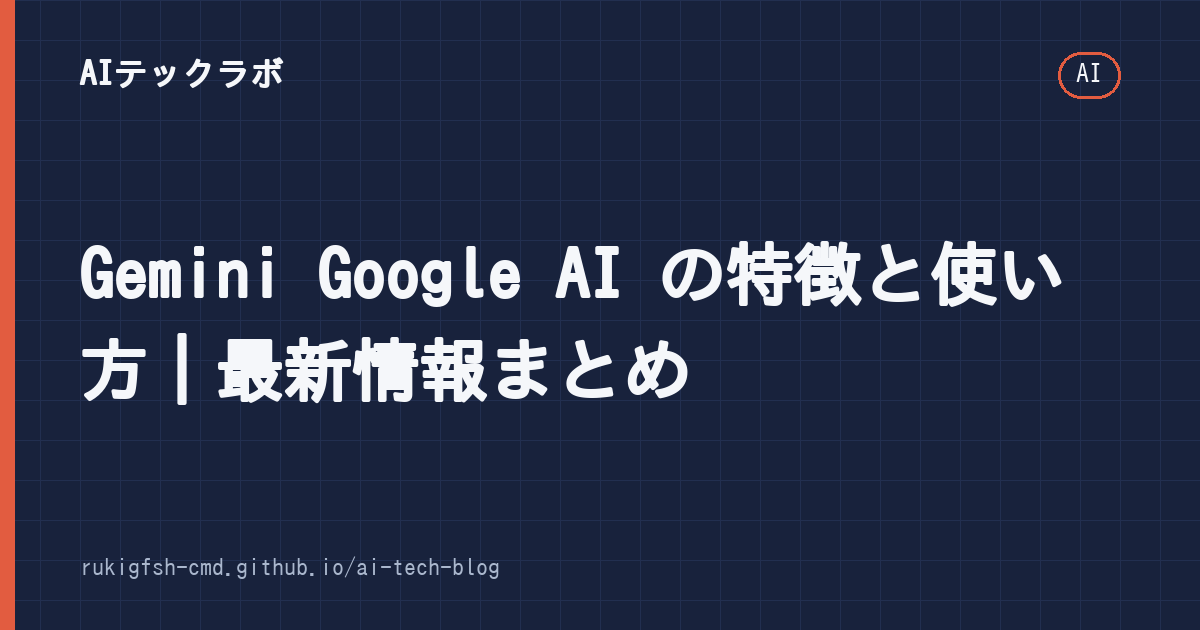
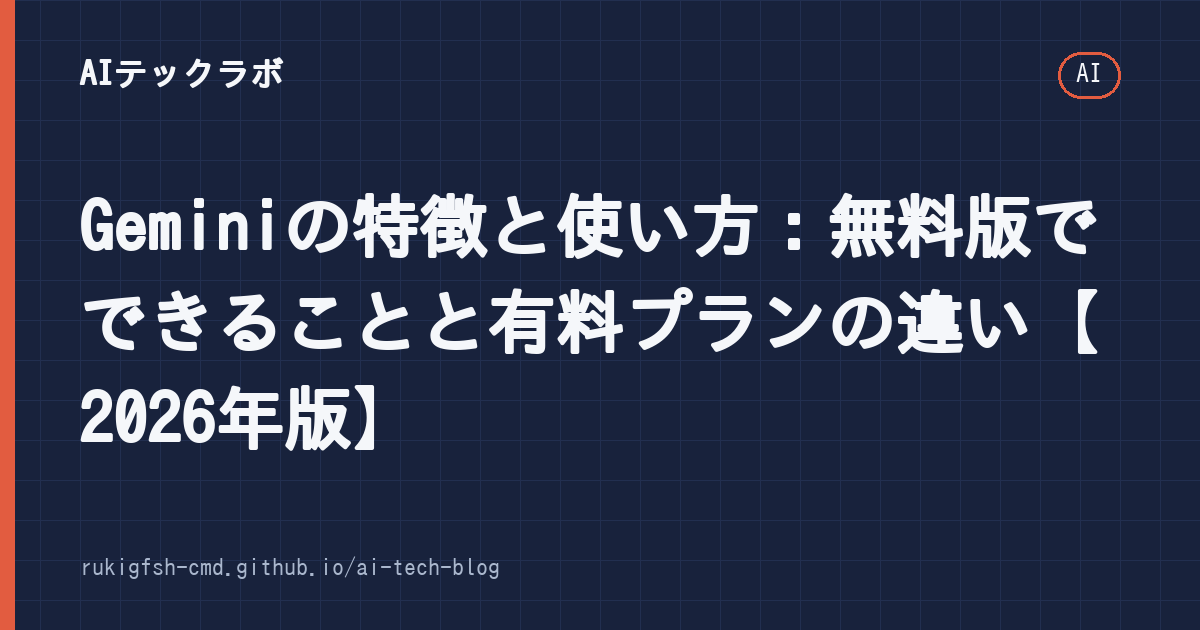
[auto-publish] Gemini記事を全面改稿（2026年10月のプラン別モデル変更・料金・機能を出典付きで）
Claude-Session: https://claude.ai/code/session_01LHbLs22yzJHof2fDha7qjp

Changed region(s): [[0.0617, 0.3016, 0.925, 0.7238], [0.8942, 0.4524, 0.925, 0.573]]

diff --git a/_posts/2026-10-02-gemini-google-ai-特徴.md b/_posts/2026-10-02-gemini-google-ai-特徴.md
@@ -1,47 +1,146 @@
 ---
 layout: "post"
-title: "Gemini Google AI の特徴と使い方｜最新情報まとめ"
+title: "Geminiの特徴と使い方：無料版でできることと有料プランの違い【2026年版】"
 date: "2026-10-02 00:00:00 +0900"
-description: "GoogleのAI「Gemini」の主な特徴（Google検索と組み合わせた回答、画像生成、コード作成、Googleサービスとの連携）と、使うときの注意点をまとめました。"
+last_modified_at: 2026-11-21
+description: "GoogleのAI「Gemini」でできること（検索連動の回答・Deep Research・画像生成・Gmail連携など）と、2026年10月に変わった無料版とGoogle AI Plus・Proの違い、上手な使い方と注意点を解説します。"
 categories:
   - AI
 tags:
   - Gemini
   - Google
   - AI
-  - 特徴
+  - 使い方
 author: "AIテックラボ編集部"
 image: "/assets/images/gemini-google-ai-特徴.png"
-last_modified_at: 2026-11-19
+pr: false
 ---
 
-## 目次
+「Geminiって無料でどこまで使えるの？」「有料プランにする意味はある？」という疑問に、2026年11月時点の公開情報をもとに答えます。
 
-1. [1. Google検索と組み合わせた回答](#1-google検索と組み合わせた回答)
-2. [2. 画像生成機能](#2-画像生成機能)
-3. [3. コード作成とデバッグ](#3-コード作成とデバッグ)
-4. [4. 多言語対応](#4-多言語対応)
-5. [5. Googleサービスとの連携](#5-googleサービスとの連携)
+Gemini は Google が提供するAIアシスタントです。ブラウザ（gemini.google.com）、スマホアプリ、Android の標準アシスタント、Gmail や Google ドキュメントの中など、いろいろな入口から使えます。
 
----
+なお、**2026年10月9日から、無料版で選べるモデルが変わりました**。少し前の解説記事とは条件が違うので、この記事では変更後の内容でまとめています。
 
-GeminiはGoogleが提供しているAIアシスタントです。無料で使え、より多く・高性能なモデルを使える有料プラン（Google AI Plus・Google AI Pro など）もあります。最新の料金や、Claude・ChatGPTとの違いは「[Claude・ChatGPT・Geminiの違いと使い分け]({{ site.baseurl }}{% post_url 2026-10-08-claude-ai-比較 %})」で比較しています。
+## 結論：まず無料版、物足りなくなったら Google AI Pro
 
-## 1. Google検索と組み合わせた回答
-Geminiは、必要に応じてGoogle検索の情報も使って答えられるのが強みです。回答の内容を検索結果と照らし合わせて確認する機能もあり、調べものの入口として使いやすくなっています。
+| こんな人に | おすすめ |
+|---|---|
+| ちょっとした調べもの・文章の下書き・画像生成を試したい | **無料版**で十分 |
+| 無料版の回答の質や回数に不満がある、Google ドライブの容量も足りない | **Google AI Plus**（入門プラン） |
+| 長い資料を読ませる、難しい質問をする、Gmail・ドキュメントの中でも使いたい | **Google AI Pro**（標準プラン） |
 
-なお、GeminiアプリはGoogleのサーバー上で動くため、使うにはインターネット接続が必要です。一部のAndroidスマホには端末内で動く小型モデル（Gemini Nano）が入っていますが、使える機能は限られます。
+最上位の **Google AI Ultra** は、動画生成などを大量に使う人向けの高額プランです。普通の使い方なら検討しなくて大丈夫です。
 
-## 2. 画像生成機能
-Geminiの画像生成機能（ImageFX）は非常に高品質です。プロンプトに「cyberpunk street」と入力すると、ネオ・トーキョー風の通りが自動生成されます。ただし、この機能は現在まだBeta段階で、利用人数制限があるようです。
+## 2026年10月に何が変わった？（プラン別のモデル）
 
-## 3. コード作成とデバッグ
-GeminiはPythonやJavaScriptなどのコード作成も得意です。「HTMLでポートフォリオのテンプレートを作って」などの依頼に対応します。さらに既存のコードを改善する提案もしてくれます。ただし、生成されたコードを実際に動かす前に必ず確認が必要です。
+Gemini には、性能と速さの違う3種類のモデルがあります。
 
-## 4. 多言語対応
-英語だけでなく日本語での会話も自然です。ただし、複雑な日本語の文脈理解にはまだ不十分で、意味が通じない返答が発生することがあります。
+- **Flash-Lite**: いちばん軽くて速い。日常の質問向け
+- **Flash**: バランス型。ふだん使いの中心
+- **Pro**: いちばん賢い。難しい推論・長い資料・プログラミング向け
 
-## 5. Googleサービスとの連携
-GeminiはGoogleアカウントと連携することで、GmailやDocsなどの機能拡張が可能です。「Gmailにスパムメールをフィルタリングするプロンプト」などを設定すると、実際に使えるようになります。ただし、この連携にはセキュリティリスクも伴います。
+Google の公式ヘルプ「Changes to Gemini model access and limits」と各社の報道によると、個人アカウントでは2026年10月9日から次のように変わりました。
 
-Geminiは検索と組み合わせて答えられる一方で、それらしい間違いを出すこともあります。重要な事実は、回答に示された出典や公式情報で確かめましょう。また、画像の生成・加工機能は便利ですが、実在の人物を使ったなりすましなどの悪用は避けてください。
+| プラン | 使えるモデル |
+|---|---|
+| 無料（未加入） | Flash-Lite のみ |
+| Google AI Plus | Flash-Lite・Flash（Pro は使えなくなる。適用日はメールで個別に案内） |
+| Google AI Pro / Ultra | Flash-Lite・Flash・Pro |
+
+出典: [Google ヘルプ「Changes to Gemini model access and limits」](https://support.google.com/gemini/answer/17004136?hl=en)、[窓の杜（2026年10月）](https://forest.watch.impress.co.jp/docs/news/2145483.html)、[PC Watch（2026年10月）](https://pc.watch.impress.co.jp/docs/news/2145770.html)
+
+あわせて、2026年5月からは使用量の上限が「回数」ではなく計算量ベースになり、無料版の上限を基準に、有料プランはその何倍まで使えるか、という形で示されるようになっています（[Google ヘルプ：プラン別の使用量上限](https://support.google.com/gemini/answer/16275805?hl=ja)）。具体的な上限は変わることがあるので、アプリの設定から見られる使用量の表示で確認してください。
+
+なお、モデルの細かい版番号（「3.1」「3.6」など）は数か月ごとに入れ替わり、紹介記事によって書かれている番号もばらばらです。**選ぶときは版番号より「Flash-Lite / Flash / Pro のどれが使えるか」を見る**のが確実です。
+
+## 料金プラン（日本）
+
+| プラン | 月額（税込） | 主な内容 |
+|---|---|---|
+| 無料 | 0円 | Google アカウントがあれば使える |
+| Google AI Plus | 1,200円（2026年1月の日本提供開始時） | Flash まで使える入門プラン。ストレージ200GB付き |
+| Google AI Pro | 2,900円 | Pro モデル、上限の引き上げ、Gmail・ドキュメントなどでの Gemini、NotebookLM の上限引き上げ。ストレージ付き |
+| Google AI Ultra | 1万円台〜3万円台（構成による） | 最上位。動画生成などの上限が大きい |
+
+出典: [Google 公式ブログ「Google AI Plus を提供開始」](https://blog.google/intl/ja-jp/company-news/technology/google-ai-plus/)、[App Store の Gemini アプリ掲載情報](https://apps.apple.com/JP/app/id6477489729)、[freee「Google AI Pro とは」](https://www.freee.co.jp/kb/kb-ai/google-ai-pro/)
+
+※ 2026年11月21日時点で確認。AI Plus は公式の購入ページで月725円と表示されている例もあり、キャンペーン（最初の数か月が割引）もあるため、金額は媒体によって違います。Pro に付くストレージ容量も2TBと5TBの両方の記載が見つかりました。**契約前に Google One のアプリか公式ページで最新の金額と内容を確認してください。**
+
+Google のプランは**クラウドストレージがセット**です。すでに Google One（ストレージ）にお金を払っている人は、AI 付きのプランに切り替えると、差額だけで Gemini の有料機能が使えることがあります。
+
+## Gemini でできること
+
+### 1. Google 検索と組み合わせた回答
+
+Gemini は、必要に応じて Google 検索の情報を使って答えます。ニュースや営業時間、新製品の情報など「今の情報」が必要な質問に強いのが特徴です。回答には参照したページが表示されることがあるので、大事な事実はそのリンク先で確かめましょう。
+
+検索と出典の表示に特化したAIなら「[Perplexity AIの使い方]({{ site.baseurl }}{% post_url 2026-10-03-perplexity-ai-検索 %})」も参考になります。
+
+### 2. Deep Research（調べものの自動レポート）
+
+テーマを伝えると、Gemini が調査の計画を立て、たくさんのWebページを読んで、出典付きのレポートにまとめてくれる機能です。「〇〇業界の最近の動向」「△△を比較して」といった、自分で調べると何時間もかかる下調べに向いています。
+
+無料版でも使えますが、回数や深さには上限があります。出来上がったレポートは便利な「たたき台」であって、結論をそのまま信じるのではなく、出典を開いて確認する前提で使いましょう。
+
+### 3. 画像の生成と編集
+
+「〇〇な雰囲気のイラストを描いて」と頼むと画像を作れます。手持ちの写真をアップロードして「背景を消して」「色合いを変えて」と、会話しながら編集することもできます。画像生成モデルは「Nano Banana」の愛称で知られ、有料プランではより高品質なモデルで作り直せます（[9to5Google](https://9to5google.com/2026/03/17/google-ai-pro-ultra-features)）。
+
+作った画像には、AIで作ったことを示す見えない透かし（SynthID）が入ります。実在の人物を使ったなりすましや、他人の作品に似せた画像を作るのは避けてください。画像生成のコツは「[Midjourneyで思い通りの画像を作るコツ]({{ site.baseurl }}{% post_url 2026-09-04-midjourney-画像生成-コツ %})」のプロンプトの考え方も参考になります。
+
+### 4. Canvas（文章やアプリのたたき台を作る画面）
+
+チャットの横に作業用の画面を開き、文章や簡単なWebページのコードを作って、その場で直していける機能です。「この文章をもっと短く」「ボタンの色を変えて」と部分的に頼めるので、長い文章の推敲や、ちょっとした道具づくりに便利です。
+
+### 5. Gem（自分用のAIを作る）
+
+「いつもこの形式で答えて」「この資料を前提にして」という指示をまとめて保存し、専用のアシスタント（Gem）として呼び出せる機能です。毎回同じ説明をしなくて済むので、メールの返信文づくり、ブログの構成案づくりなど、繰り返す作業に向いています。指示の書き方は「[プロンプトエンジニアリング入門]({{ site.baseurl }}{% post_url 2026-09-27-プロンプトエンジニアリング-入門 %})」で解説しています。
+
+### 6. Gemini Live（音声で会話）
+
+スマホに話しかけて、そのまま音声で会話できる機能です。途中で割り込んで質問を変えることもでき、カメラの映像や画面を見せながら相談することもできます。英会話の練習や、料理中など手がふさがっているときに便利です。
+
+### 7. Google のアプリとの連携
+
+Gemini アプリから、Gmail・Google ドライブ・Google カレンダー・Google マップ・YouTube などの情報を使えます（アプリの設定で連携をオンにした場合）。たとえば「先週の〇〇さんからのメールを要約して」「ドライブにある見積書の金額を教えて」といった使い方です。
+
+さらに **Google AI Pro 以上**では、Gmail や Google ドキュメントの画面の中でも Gemini を呼び出して、メールの下書きや文書の要約ができます。
+
+### 8. スマホ（Android）のアシスタントとして
+
+多くの Android スマホでは、電源ボタンの長押しなどで Gemini を呼び出せます。画面に表示されている内容について質問したり、アラームやメッセージの操作を頼んだりできます。iPhone でもアプリを入れれば使えますが、OS との連携は Android のほうが深くなっています。
+
+## 上手に使うコツ
+
+- **前提と目的を最初に書く**: 「中学生向けに」「300字で」「表にして」など、読み手・長さ・形式を指定すると、やり直しが減ります。
+- **調べものは出典を開く**: 検索連動の回答や Deep Research でも、それらしい間違い（ハルシネーション）は起こります。数字・日付・固有名詞は出典で確認しましょう。
+- **繰り返す作業は Gem にする**: 同じ指示を何度も打っているなら、Gem にまとめると楽になります。
+- **重い作業はモデルを確認**: 長い資料の分析やプログラミングで結果がいまいちなときは、使っているモデル（Flash-Lite / Flash / Pro）を確認しましょう。無料版は Flash-Lite だけなので、難しい作業は苦手です。
+
+## 注意点（プライバシーと安全）
+
+- **会話の扱いを確認する**: 個人向けの Gemini では、設定（「Gemini アプリ アクティビティ」など）によって会話が保存され、サービスの改善に使われることがあります。会社の機密情報や他人の個人情報は入力しないのが基本です。設定はアカウントのアクティビティ管理から変えられます。
+- **仕事用アカウントは条件が違う**: 会社や学校の Google Workspace アカウントでは、管理者の設定や契約によって使える機能やデータの扱いが異なります。今回のモデル変更も、個人アカウント向けの告知です。
+- **連携をオンにする範囲を決める**: Gmail やドライブとの連携は便利な反面、AI がそれらの中身を読むことになります。必要なアプリだけオンにしましょう。
+- **インターネット接続が必要**: Gemini アプリは Google のサーバーで動くため、オフラインでは使えません。一部の Android 端末には端末内で動く小型モデル（Gemini Nano）が入っていますが、使える機能は限られます。完全に手元のPCだけでAIを動かしたい場合は「[Ollamaのインストール方法]({{ site.baseurl }}{% post_url 2026-09-26-ollama-インストール-方法 %})」のようなローカルLLMという選択肢があります。
+
+## よくある質問
+
+**Q. 無料版だけでも実用になりますか？**
+日常の質問、短い文章の下書き、画像生成のお試しなら十分です。ただし2026年10月以降、無料版は Flash-Lite だけになったため、長い資料の読み込みや難しい推論では物足りなさを感じやすくなりました。
+
+**Q. Google AI Plus と Pro、どちらがいい？**
+「回数を増やしたい・ストレージも欲しい」なら Plus、「Pro モデルを使いたい・Gmail やドキュメントの中でも使いたい」なら Pro です。AI Plus では Pro モデルが使えなくなる点に注意してください。
+
+**Q. ChatGPT や Claude とどう違う？**
+Gemini は Google のサービスとの連携と、検索を使った回答が強みです。3つの違いは「[Claude・ChatGPT・Geminiの違いと使い分け]({{ site.baseurl }}{% post_url 2026-10-08-claude-ai-比較 %})」で比較しています。
+
+## まとめ
+
+- Gemini は、検索連動の回答・Deep Research・画像生成・Google アプリ連携が強みのAIアシスタント。
+- 2026年10月9日から、無料版は Flash-Lite のみ、AI Plus は Flash まで、Pro モデルは Google AI Pro 以上に。
+- まず無料版で試し、物足りなければ Google AI Pro（月2,900円）を検討するのが分かりやすい選び方。
+- 大事な事実は出典で確認し、機密情報は入力しない。
+
+※ 本記事の機能・料金は2026年11月21日時点で確認できた公開情報（Google の公式ブログ・ヘルプと報道）にもとづきます。Gemini の機能や上限は頻繁に変わるため、最新の情報は公式ページでご確認ください。

diff --git a/automation/state/content-audit.md b/automation/state/content-audit.md
@@ -12,7 +12,7 @@
 - [x] `_posts/2026-10-07-ai-副業-始め方.md`（2026-11-19 全面改稿。確定申告の誤り「200万円」も修正） — 「初心者でも月3〜5万円程度は安定して稼げます」など根拠のない表現を削除し、前提条件と幅で書く。ステマ規制・確定申告（副業所得が年20万円を超える場合など）の注意を追記。
 - [x] `_posts/2026-09-19-chatgpt-副業-活用.md`（2026-11-19 全面改稿。収益の約束・コンテンツファーム・他サイトの転載を勧める記述を削除し、作業別の使い方＋プロンプト例に） — 同上（収益の約束をしない）。
 - [ ] `_posts/2026-09-26-キーボード-メカニカル-おすすめ.md` — 見出しに「タイトル：【2024年版】」という生成ミスの残骸。2026年時点の製品情報で書き直し、商品リンクを `{% include amazon.html %}` に。
-- [ ] `_posts/2026-10-02-gemini-google-ai-特徴.md` — 見出し「完全オフライン対応」、description「検索対応なし」など事実と逆の記述。Gemini の現行機能・料金（Google AI Plus / Pro）で書き直す。（2026-11-19 追加）
+- [x] `_posts/2026-10-02-gemini-google-ai-特徴.md`（2026-11-21 全面改稿。2026年10月9日のプラン別モデル変更、AI Plus/Pro/Ultra の料金、Deep Research・Canvas・Gem・Live・アプリ連携、プライバシーの注意を出典付きで。比較記事にもモデル変更の注記を追加） — 見出し「完全オフライン対応」、description「検索対応なし」など事実と逆の記述。Gemini の現行機能・料金（Google AI Plus / Pro）で書き直す。（2026-11-19 追加）
   - 2026-11-19: 事実と逆だった「検索機能がない」「完全オフライン対応」の記述は応急処置で修正済み。残りの全面書き直し（画像生成・料金など現行の情報）が必要。
 - [x] `_posts/2026-10-12-vram-不足-解決-方法.md`（2026-11-20 全面改稿。見積もりスクリプトは実行確認済み、Ollama/ComfyUI の設定は公式FAQ・ソースで確認） — 本文が約1,100字と短い。量子化・オフロード・モデル選び・設定例まで具体的に。
 

diff --git a/_posts/2026-10-08-claude-ai-比較.md b/_posts/2026-10-08-claude-ai-比較.md
@@ -2,7 +2,7 @@
 layout: "post"
 title: "Claude・ChatGPT・Geminiの違いと使い分け【2026年版】"
 date: "2026-10-08 00:00:00 +0900"
-last_modified_at: 2026-11-19
+last_modified_at: 2026-11-21
 description: "Claude・ChatGPT・Geminiの得意分野、料金プラン、無料版でできることを2026年11月時点の情報で比較。用途別にどれを選べばいいか、失敗しない選び方を解説します。"
 categories:
   - AI
@@ -111,6 +111,8 @@ Gemini は Google が提供するAIです。
 | Google AI Ultra | 3万円台 | 最上位プラン |
 
 出典: [ギズモード・ジャパン「Google AI Plus は月1,200円」](https://www.gizmodo.jp/article/google_ai_plus/)、[ビジネス+IT（2026年1月）](https://www.sbbit.jp/article/cont1/179565)。その後の値下げを伝える報道もあるため、最新の金額は Google One のアプリや公式ページで確認してください。
+
+なお、2026年10月9日から個人アカウントの無料版は軽量モデル（Flash-Lite）のみ、AI Plus は Flash まで、上位の Pro モデルは Google AI Pro 以上で使える形に変わりました（[窓の杜](https://forest.watch.impress.co.jp/docs/news/2145483.html)）。
 
 Googleのプランはクラウドストレージがセットになっているため、**すでにGoogle Oneを払っている人は、乗り換えるだけで実質の負担が小さくなる**ことがあります。
 
